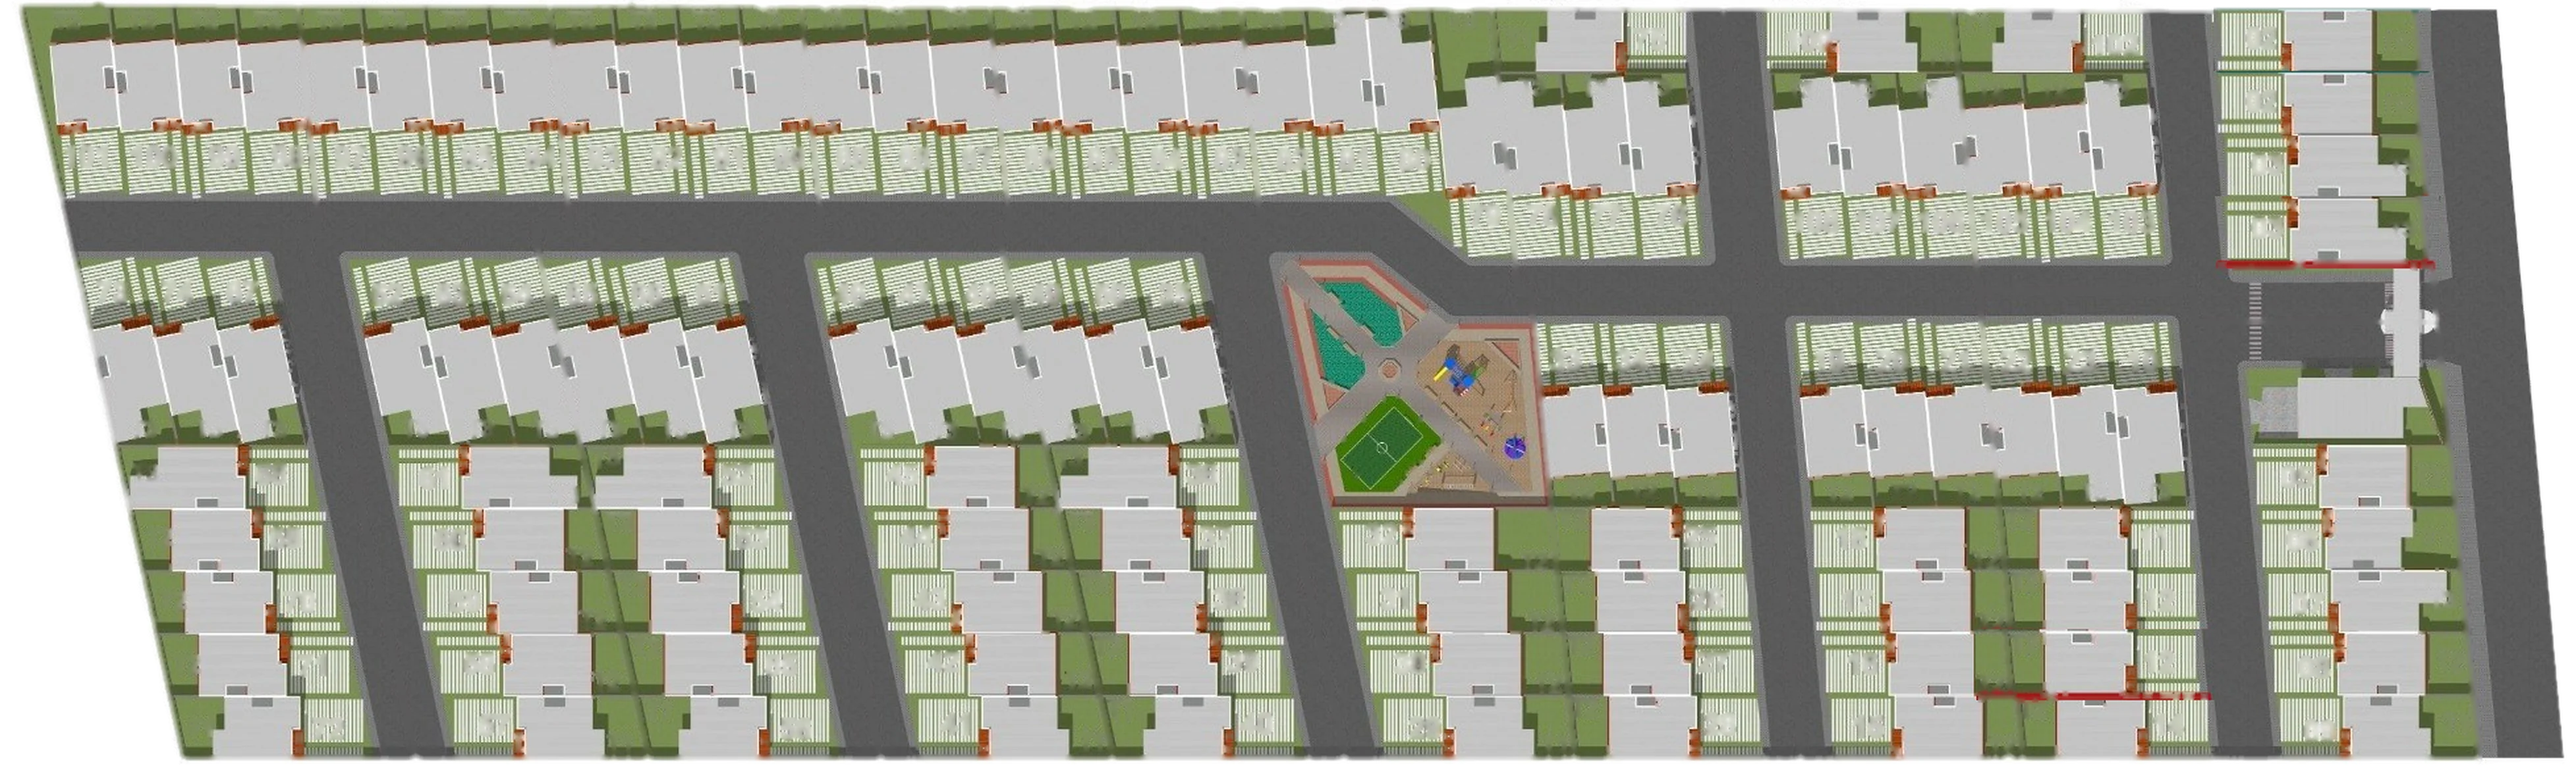
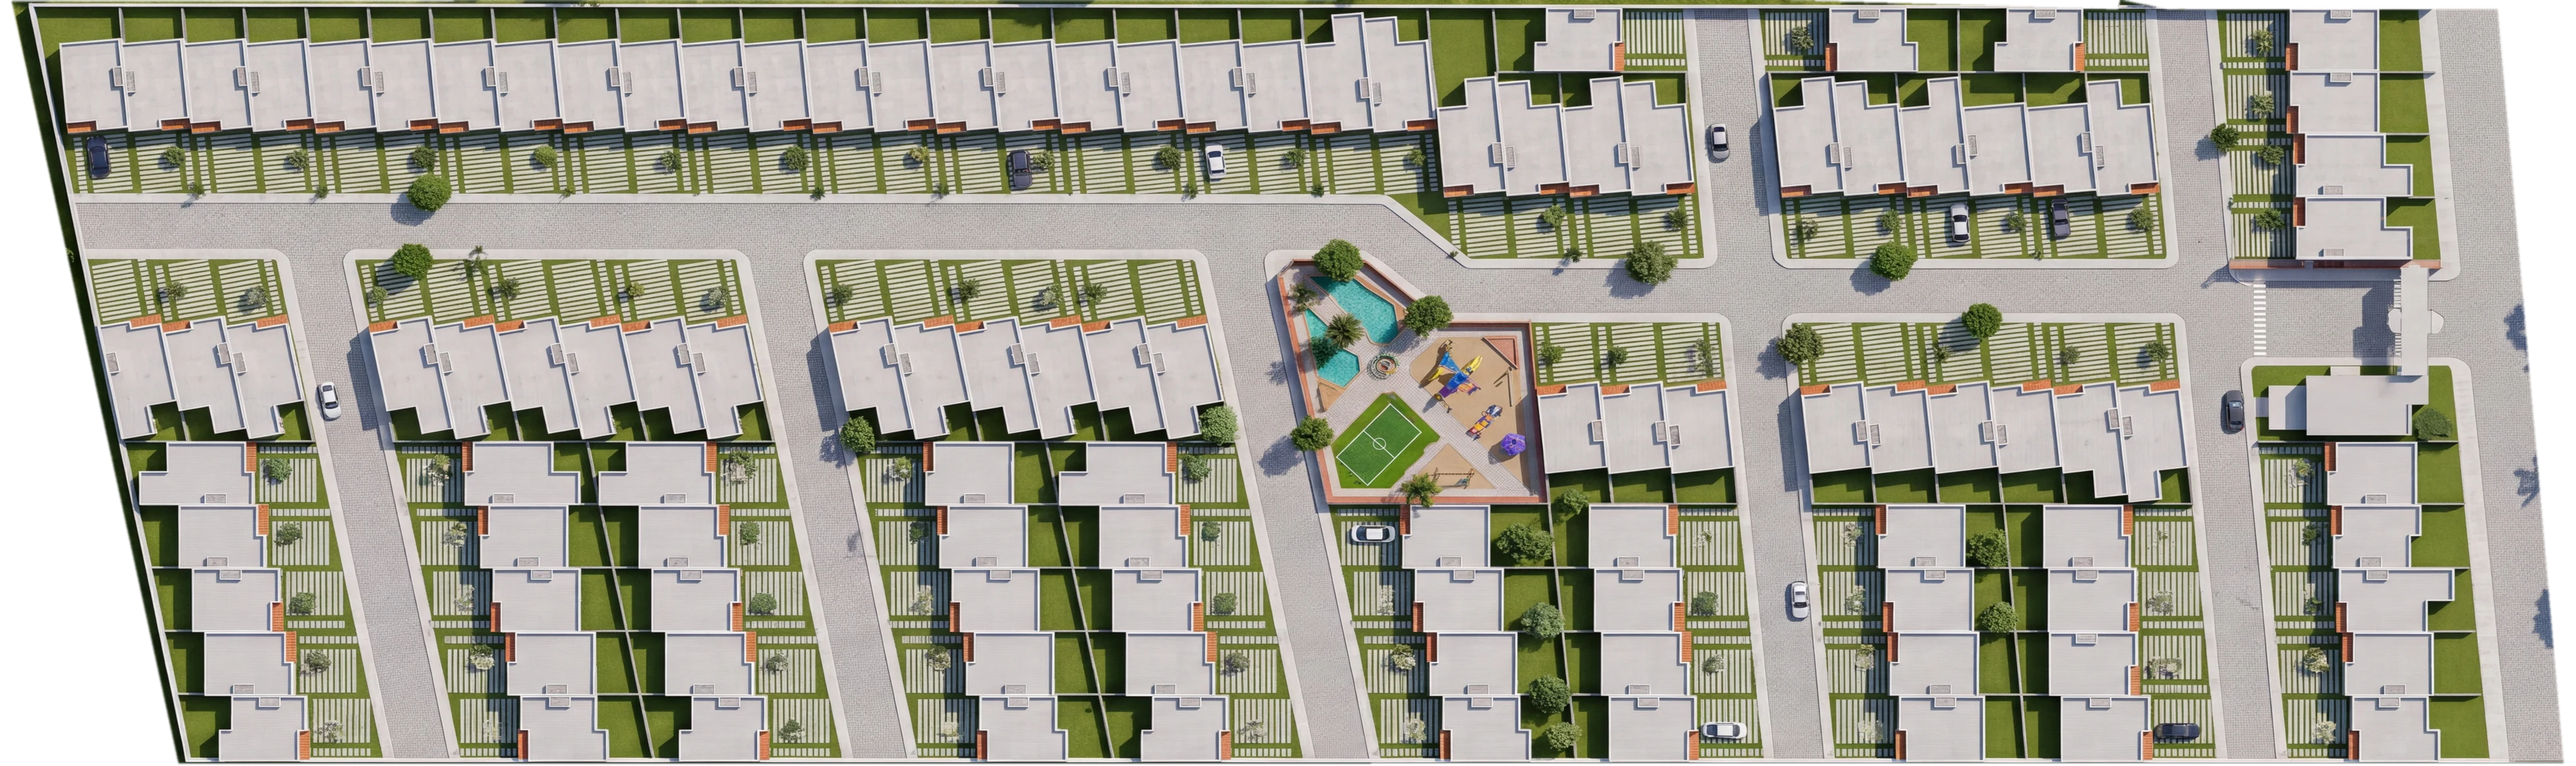
Barrio Vida: suelo y techos fotorrealistas alineados al loteo (imagen cenital Higgsfield registrada al plano)
Claude-Session: https://claude.ai/code/session_01WXN6MccAs49g9rjqcWi9do

diff --git a/sitios/barriovida/index.html b/sitios/barriovida/index.html
@@ -357,7 +357,7 @@ plan.rotation.x = -Math.PI / 2; plan.position.set((gx0 + gx1) / 2, -.05, (gz0 + 
 const ruido = (base, n, a) => { const c = document.createElement('canvas'); c.width = c.height = 256; const x = c.getContext('2d'); x.fillStyle = base; x.fillRect(0, 0, 256, 256);
   for (let i = 0; i < n; i++) { const v = Math.random() * 40 - 20; x.fillStyle = `rgba(${v > 0 ? 255 : 0},${v > 0 ? 255 : 0},${v > 0 ? 255 : 0},${a * Math.abs(v) / 20})`; x.fillRect(Math.random() * 256, Math.random() * 256, 1 + Math.random() * 2, 1 + Math.random() * 2); }
   const t = new THREE.CanvasTexture(c); t.wrapS = t.wrapT = THREE.RepeatWrapping; t.colorSpace = THREE.SRGBColorSpace; return t; };
-const mWall = new THREE.MeshStandardMaterial({ color: 0xf3f1ec, roughness: .9, map: ruido('#f1efe9', 9000, .12) });
+const mWall = new THREE.MeshStandardMaterial({ color: 0xe4e2dc, roughness: .9, map: ruido('#dedbd4', 9000, .12) });
 const mRoof = new THREE.MeshStandardMaterial({ color: 0xffffff, roughness: 1, map: ruido('#a9a7a1', 14000, .25) });
 const mBrick = (() => { const c = document.createElement('canvas'); c.width = c.height = 128; const x = c.getContext('2d'); x.fillStyle = '#d9cfc2'; x.fillRect(0, 0, 128, 128);
   for (let r = 0; r < 16; r++) for (let k = -1; k < 5; k++) { x.fillStyle = `hsl(${12 + Math.random() * 8},${45 + Math.random() * 15}%,${33 + Math.random() * 10}%)`; x.fillRect(k * 32 + (r % 2) * 16 + 1, r * 8 + 1, 30, 6); }
@@ -368,7 +368,14 @@ const m4 = new THREE.Matrix4(), q = new THREE.Quaternion(), e = new THREE.Euler(
 D.houses.forEach((h, i) => { e.set(0, THREE.MathUtils.degToRad(h.a), 0); q.setFromEuler(e);
   m4.compose(v.set(h.c[0], 1.7, h.c[1]), q, s.set(h.w, 3.4, h.d)); casas.setMatrixAt(i, m4);
   m4.compose(v.set(h.c[0], 3.42, h.c[1]), q, s.set(Math.max(.5, h.w - .5), .06, Math.max(.5, h.d - .5))); techos.setMatrixAt(i, m4); });
-casas.castShadow = casas.receiveShadow = true; techos.receiveShadow = true; scene.add(casas, techos);
+casas.castShadow = casas.receiveShadow = true; scene.add(casas);
+// techos fotorrealistas: la misma imagen cenital proyectada sobre la tapa de cada casa (coincide con la foto del suelo)
+{ const pos = [], uv = [], idx = []; const U = (x, z) => [(x - gx0) / (gx1 - gx0), 1 - (z - gz0) / (gz1 - gz0)];
+  D.houses.forEach(h => { const a = THREE.MathUtils.degToRad(h.a), c = Math.cos(a), sn = Math.sin(a), n = pos.length / 3;
+    [[-1, -1], [1, -1], [1, 1], [-1, 1]].forEach(([i, j]) => { const lx = i * h.w / 2, lz = j * h.d / 2, x = h.c[0] + lx * c + lz * sn, z = h.c[1] - lx * sn + lz * c; pos.push(x, 3.42, z); uv.push(...U(x, z)); });
+    idx.push(n, n + 2, n + 1, n, n + 3, n + 2); });
+  const g = new THREE.BufferGeometry(); g.setAttribute('position', new THREE.Float32BufferAttribute(pos, 3)); g.setAttribute('uv', new THREE.Float32BufferAttribute(uv, 2)); g.setIndex(idx); g.computeVertexNormals();
+  const tm = new THREE.Mesh(g, new THREE.MeshStandardMaterial({ map: tex, roughness: .95, side: THREE.DoubleSide })); tm.receiveShadow = true; scene.add(tm); }
 const lad = new THREE.InstancedMesh(gBox, mBrick, D.bricks.length);
 D.bricks.forEach((b, i) => { e.set(0, THREE.MathUtils.degToRad(b.a), 0); q.setFromEuler(e); m4.compose(v.set(b.c[0], 1.95, b.c[1]), q, s.set(Math.max(.45, b.w), 3.9, Math.max(.45, b.d))); lad.setMatrixAt(i, m4); });
 lad.castShadow = true; scene.add(lad);
@@ -423,9 +430,10 @@ const hs = (txt, p, ir) => { const el = document.createElement('div'); el.classN
 hs('Parque central', D.park, 'parque'); hs('Acceso y seguridad 24 h', D.gate, 'casa');
 /* ---------- API para el showroom ---------- */
 let SEL = null, F = 'todas';
+window.__bvp = { scene, camera, renderer, controls, lotMesh, lotLbl, satMats, THREE };
 window.BVP3D = {
   pintar(units, filtro) { F = filtro; units.forEach(u => { const m = lotMesh[u.n]; if (!m) return; const off = filtro !== 'todas' && (filtro === 'libre' ? u.estado !== 'libre' : u.t !== filtro);
-    m.material.color.setHex(COL[u.estado] || 0xffffff); m.userData.base = off ? .05 : (u.estado === 'libre' ? .26 : .34); m.material.opacity = m.userData.base; m.userData.ed.material.opacity = off ? .12 : .55;
+    m.material.color.setHex(COL[u.estado] || 0xffffff); m.userData.base = off ? .04 : (u.estado === 'libre' ? .15 : .3); m.material.opacity = m.userData.base; m.userData.ed.material.opacity = off ? .12 : .55;
     lotLbl[u.n].element.className = 'l3 ' + u.estado + (off ? ' off' : ''); }); },
   sel(n) { if (SEL && lotMesh[SEL]) { lotMesh[SEL].material.opacity = lotMesh[SEL].userData.base; lotLbl[SEL].element.classList.remove('sel'); } SEL = n;
     if (n && lotMesh[n]) { lotMesh[n].material.opacity = .85; lotLbl[n].element.classList.add('sel'); const c = lotLbl[n].position; volar(new THREE.Vector3(c.x + (MOV ? 0 : 18), 34, c.z + 46), new THREE.Vector3(c.x + (MOV ? 0 : 9), 0, c.z), 1300); } },
